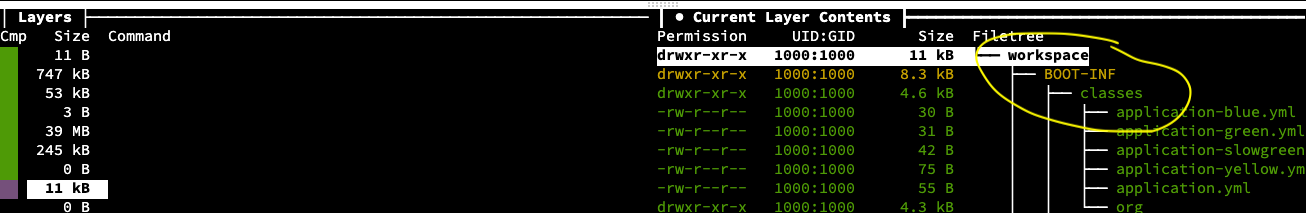
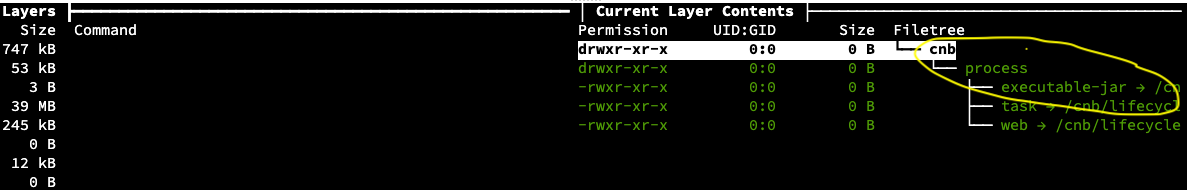
small bug

diff --git a/workshop-instructions/content/exercises/03-lab03.md b/workshop-instructions/content/exercises/03-lab03.md
@@ -197,7 +197,7 @@ dive blueorgreenservice:pk
 ```
 - After running the command above use your keyboard to type: 
   - `Tab`, `Ctrl-U`, `Tab`
-- Next, use the down arrow to move down the list of layers on the left-side window until you find the layer that adds the `workspace` file on the right hand side.
+- Next, use the down arrow to move down the list of layers on the left-side window until you find the layer that has the `executable-jar` file on the right hand side.
 
 > Picture for reference:
 ![alt_text](images/dive-appjar-cnb.png "find workspace after tab, ctrl-u, tab")

diff --git a/workshop-instructions/content/exercises/04-lab04.md b/workshop-instructions/content/exercises/04-lab04.md
@@ -11,7 +11,7 @@ Create the manifest for the `deployment` of each application.
 Note that the blueorgreenservice image needs to be deployed four times - blue, green, slowgreen, and yellow.
 Use the `kubectl` CLI with the option `--dry-run=client` to generate the yaml without applying it to Kubernetes. 
 ```execute-1
-mkdir k8s/lift-and-shift
+mkdir -p k8s/lift-and-shift
 
 kubectl create deployment configserver \
             --image $REGISTRY_HOST/color-app/configserver \
